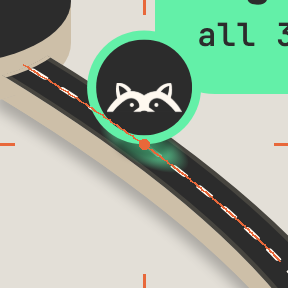
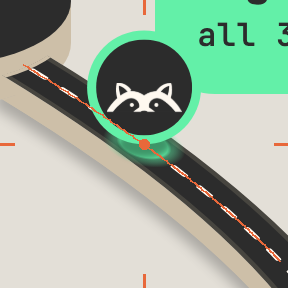
Pin glow is a bright spring pool under the coin, as wide as the road

Changed region(s): [[0.375, 0.4688, 0.6562, 0.5938], [0.3438, 0.4375, 0.375, 0.4688]]

diff --git a/mobile/lib/features/games/road_segment.dart b/mobile/lib/features/games/road_segment.dart
@@ -478,19 +478,22 @@ class PinShadow extends StatelessWidget {
   final double glow;
 
   /// Which way the pin is walking, as an angle on the ground: the glow is
-  /// a pool stretched along the way it goes and no wider than the road.
+  /// a pool lying along the way it goes, a little longer than it is wide.
   final double heading;
 
-  /// The glow's half length along the walk, and half width across it, on
-  /// the ground.
-  static double glowAlong(RoadSize size) => size.width * 1.1;
+  /// The glow's solid core on the ground: as wide as the road across the
+  /// walk and twice that along it, so it shows either side of the coin. Its
+  /// soft edge runs out to [glowFalloff] times the core, a little past the
+  /// road's edges.
   static double glowAcross(RoadSize size) => size.width / 2;
+  static double glowAlong(RoadSize size) => glowAcross(size) * 2;
+  static const glowFalloff = 1.5;
 
   @override
   Widget build(BuildContext context) {
     final rx = size.pinFoot / 2;
     final ry = rx * AppRoad.k;
-    final gx = glowAlong(size);
+    final gx = glowAlong(size) * glowFalloff;
     final pad = math.max(rx, gx) + 4;
     return Positioned(
       left: anchor.dx - pad,
@@ -504,7 +507,7 @@ class PinShadow extends StatelessWidget {
             rx: rx,
             ry: ry,
             along: gx,
-            across: glowAcross(size),
+            across: glowAcross(size) * glowFalloff,
             heading: heading,
             opacity: opacity,
             glow: glow,
@@ -553,10 +556,12 @@ class _PinShadowPainter extends CustomPainter {
           ..shader = RadialGradient(
             colors: [
               RoadColors.pulse.withValues(alpha: a),
-              RoadColors.pulse.withValues(alpha: 0.6 * a),
+              RoadColors.pulse.withValues(alpha: a),
+              RoadColors.pulse.withValues(alpha: 0.5 * a),
               RoadColors.pulse.withValues(alpha: 0),
             ],
-            stops: const [0, 0.55, 1],
+            // Solid to the core's edge (1 / falloff), then a soft run out.
+            stops: const [0, 0.58, 1 / PinShadow.glowFalloff, 1],
           ).createShader(Rect.fromCircle(center: Offset.zero, radius: 1)),
       );
       canvas.restore();
@@ -566,7 +571,9 @@ class _PinShadowPainter extends CustomPainter {
       Paint()
         ..color = const Color(
           0xFF000000,
-        ).withValues(alpha: AppRoad.pinShadowAlpha * opacity)
+          // Lighter while the glow is lit, so the glow's core shows through
+          // it; the shadow still lies on top.
+        ).withValues(alpha: AppRoad.pinShadowAlpha * opacity * (1 - 0.6 * glow))
         ..maskFilter = const MaskFilter.blur(
           BlurStyle.normal,
           AppRoad.pinShadowBlur,

diff --git a/mobile/design/road/ROAD.md b/mobile/design/road/ROAD.md
@@ -224,8 +224,14 @@ speed). Every frame's anchor lies on the path.
 
 **The glow** is the pin's own light, not a separate pulse: a flat spring
 pool on the surface the pin stands on, centred on the anchor, under the
-coin's contact shadow and under every label. It fades in over the first
-150 ms of the walk and out over the last 150 ms. While the anchor is
+coin's contact shadow and under every label. On the ground it is an
+ellipse lying along the walk: a solid spring core as wide as the road and
+twice that long, so it shows either side of the coin, with a soft edge out
+to 1.5 times the core that spills a little past the road's edges. The
+contact shadow lightens to 40% while the glow is lit so the core reads
+through it. The same spring by day and at night, on road and face alike
+(owner, 2026-11-03: the "green sparkle" must be plainly visible). It fades
+in over the first 150 ms of the walk and out over the last 150 ms. While the anchor is
 outside the finished platform's rim the glow and shadow lie in the road's
 layer (the platform's wall covers them as the pin steps up); inside the rim
 they lie on the face.
